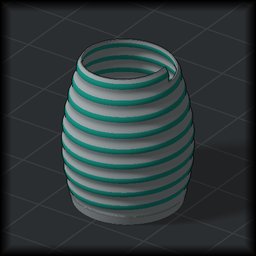
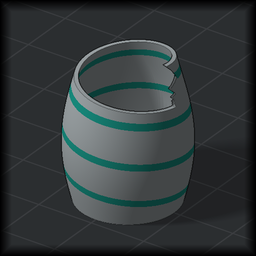
Explain the remaining calibration choices and the window buttons
- Calibration dialogs: filament type, test model and shaper type
  radios, and the flow ratio dialog's four test types and top surface
  pattern.
- Top bar: Minimize, Maximize/Restore (following the window state) and
  Close.
- Spiral vase "on" redrawn so the seam reads as one continuous spiral.

Changed region(s): [[0.2188, 0.1562, 0.7812, 0.8438]]

diff --git a/src/slic3r/GUI/calib_dlg.cpp b/src/slic3r/GUI/calib_dlg.cpp
@@ -56,6 +56,24 @@ void set_input_tooltip(TextInput* input, const wxString& text)
     set_illustrated_tooltip(input->GetTextCtrl(), text);
 }
 
+// One text for every item of a radio group, where the items differ only in the value they pick.
+void set_radio_tooltips(RadioGroup* group, size_t count, const wxString& text)
+{
+    for (size_t i = 0; i < count; ++i)
+        group->SetRadioIllustratedTooltip(int(i), text, {});
+}
+
+void set_tower_model_tooltips(RadioGroup* group)
+{
+    group->SetRadioIllustratedTooltip(0, _L("The large ringing tower: its long straight walls show the ripples after each corner clearly."), {});
+    group->SetRadioIllustratedTooltip(1, _L("A much smaller tower of the same height, quicker to print and small enough for little beds."), {});
+}
+
+void set_shaper_type_tooltips(RadioGroup* group, size_t count)
+{
+    set_radio_tooltips(group, count, _L("The input shaper algorithm the test sets on the printer. Only the types this printer's firmware supports are listed."));
+}
+
 void ParseStringValues(std::string str, std::vector<double> &vec)
 {
     vec.clear();
@@ -544,6 +562,9 @@ Temp_Calibration_Dlg::Temp_Calibration_Dlg(wxWindow* parent, wxWindowID id, Plat
     set_input_tooltip(m_tiStart, _L("The nozzle temperature of the bottom block of the tower. Each block above it is 5 degrees cooler, down to the end temperature."));
     set_input_tooltip(m_tiEnd, _L("The nozzle temperature of the top block. It has to be at least 5 degrees below the start temperature."));
     set_input_tooltip(m_tiStep, _L("The temperature difference between neighboring blocks, fixed at 5 degrees."));
+    set_radio_tooltips(m_rbFilamentType, 8, _L("Fills in a start and end temperature that suit this kind of filament. You can still change them."));
+    m_rbModel->SetRadioIllustratedTooltip(0, _L("A tower of blocks, one for each temperature."), {});
+    m_rbModel->SetRadioIllustratedTooltip(1, _L("A row of small test pieces with an overhang, one for each temperature, to compare how the overhangs come out."), {});
     wiki_btn->SetToolTip(_L("Wiki Guide") + "\n" + wiki_url);
     wiki_btn->SetStyle(ButtonStyle::Confirm, ButtonType::Circle);
     wiki_btn->SetCanFocus(false);
@@ -1339,6 +1360,8 @@ Input_Shaping_Freq_Test_Dlg::Input_Shaping_Freq_Test_Dlg(wxWindow* parent, wxWin
         set_input_tooltip(m_tiFreqStartY, freq_tip);
         set_input_tooltip(m_tiFreqEndY, freq_tip);
         set_input_tooltip(m_tiDampingFactor, _L("The damping ratio used for the whole test. 0 keeps the printer's own value."));
+        set_tower_model_tooltips(m_rbModel);
+        set_shaper_type_tooltips(m_rbType, type_labels.size());
     }
     wiki_btn->SetToolTip(_L("Wiki Guide") + "\n" + wiki_url);
     wiki_btn->SetStyle(ButtonStyle::Confirm, ButtonType::Circle);
@@ -1555,6 +1578,8 @@ Input_Shaping_Damp_Test_Dlg::Input_Shaping_Damp_Test_Dlg(wxWindow* parent, wxWin
                                      "so the height where the ringing after the corners is weakest gives the ratio.");
         set_input_tooltip(m_tiDampingFactorStart, damp_tip);
         set_input_tooltip(m_tiDampingFactorEnd, damp_tip);
+        set_tower_model_tooltips(m_rbModel);
+        set_shaper_type_tooltips(m_rbType, type_labels.size());
     }
     wiki_btn->SetToolTip(_L("Wiki Guide") + "\n" + wiki_url);
     wiki_btn->SetStyle(ButtonStyle::Confirm, ButtonType::Circle);
@@ -1763,6 +1788,8 @@ Cornering_Test_Dlg::Cornering_Test_Dlg(wxWindow* parent, wxWindowID id, Plater* 
     set_input_tooltip(m_tiJDStart, _L("The cornering limit at the bottom of the tower: junction deviation or jerk, whichever the printer's firmware uses. "
                                       "It changes steadily with height up to the end value."));
     set_input_tooltip(m_tiJDEnd, _L("The cornering limit at the top of the tower. The highest point where the corners still look clean gives the value."));
+    set_tower_model_tooltips(m_rbModel);
+    m_rbModel->SetRadioIllustratedTooltip(2, _L("A test model made for cornering tests (square corner velocity)."), {});
     wiki_btn->SetToolTip(_L("Wiki Guide") + "\n" + wiki_url);
     wiki_btn->SetStyle(ButtonStyle::Confirm, ButtonType::Circle);
     wiki_btn->SetCanFocus(false);
@@ -1909,6 +1936,15 @@ FlowRateCalibrationDialog::FlowRateCalibrationDialog(wxWindow* parent, wxWindowI
 
     auto wiki_btn = new Button(this, "", "toolbar_wiki", 0, 15);
     auto wiki_url = "https://www.orcaslicer.com/wiki/flow_ratio_calib";
+
+    m_rbType->SetRadioIllustratedTooltip(0, _L("Blocks whose flow ratio differs in large steps around the current one. "
+                                               "Set the flow ratio of the smoothest block, then run Pass 2."), {});
+    m_rbType->SetRadioIllustratedTooltip(1, _L("Blocks in small steps below the current flow ratio, to refine the result of Pass 1."), {});
+    m_rbType->SetRadioIllustratedTooltip(2, _L("One print that covers a narrow range around the current flow ratio, read off by the smoothest block. "
+                                               "Quicker than two passes."), {});
+    m_rbType->SetRadioIllustratedTooltip(3, _L("The same as YOLO, with smaller steps between the blocks."), {});
+    set_illustrated_tooltip(m_rbPattern, _L("The pattern of the top surfaces the test is judged by. Archimedean Chords prints the center last, "
+                                            "so too much flow leaves a raised lip there that can be felt. Monotonic gives plain straight lines."));
     wiki_btn->SetToolTip(_L("Wiki Guide") + "\n" + wiki_url);
     wiki_btn->SetStyle(ButtonStyle::Confirm, ButtonType::Circle);
     wiki_btn->SetCanFocus(false);

diff --git a/scripts/gizmo_tips/app_ui.py b/scripts/gizmo_tips/app_ui.py
@@ -203,6 +203,9 @@ VASE_LH = 0.13
 VASE_WALL = 0.035
 VASE_BOTTOM = 0.08
 SEAM_ANGLE = math.radians(-62.0)
+# The helix climbs faster than a real layer height, so its slope reads at this size as one rising line
+# and not as a stack of rings.
+SPIRAL_PITCH = 0.34
 
 
 def _vase_radius(z):
@@ -218,16 +221,17 @@ def _vase(spiral):
         wall = np.abs(r - rz + VASE_WALL * 0.5) - VASE_WALL * 0.5
         if spiral:
             # The wall ends on the helix, so the rim climbs once around instead of ending level.
-            top = VASE_H - VASE_LH * (1.0 - (theta / (2.0 * math.pi)) % 1.0)
+            top = VASE_H - SPIRAL_PITCH * (1.0 - (-theta / (2.0 * math.pi)) % 1.0)
         else:
             top = VASE_H
         dz = np.maximum(-z, z - top)
         bottom = np.maximum(r - rz, np.maximum(-z, z - VASE_BOTTOM))
         shell = np.minimum(np.maximum(wall, dz), bottom) * 0.8
         if spiral:
-            phase = z / VASE_LH - theta / (2.0 * math.pi)
-            ridge = 0.012 * (0.5 + 0.5 * np.cos(2.0 * math.pi * phase))
-            mat = np.where((z > VASE_BOTTOM + 0.01) & (np.abs((phase % 1.0) - 0.5) < 0.17), M_ACCENT, M_PART)
+            phase = z / SPIRAL_PITCH + theta / (2.0 * math.pi)
+            # No layer ridges: they would draw level rings and contradict the one rising line.
+            ridge = 0.0
+            mat = np.where((z > VASE_BOTTOM + 0.01) & (np.abs((phase % 1.0) - 0.5) < 0.09), M_ACCENT, M_PART)
             return union(bed(p), (shell + ridge * (z > VASE_BOTTOM), mat))
         ridge = _layer_ridges(z, VASE_LH, 0.012)
         items = [bed(p), (shell + ridge, M_PART)]

diff --git a/src/slic3r/GUI/BBLTopbar.cpp b/src/slic3r/GUI/BBLTopbar.cpp
@@ -464,6 +464,9 @@ void BBLTopbar::UpdateToolTips()
     SetToolShortHelp(ID_TOP_DROPDOWN_MENU, _L("The Edit, View and Help menus, Preferences, the Speed Dial, preset bundles and plugins."));
     SetToolShortHelp(ID_CALIB, _L("Prints a test model to tune a setting for the selected printer and filament: "
                                   "temperature, flow, pressure advance, retraction and more."));
+    SetToolShortHelp(wxID_ICONIZE_FRAME, _L("Minimize"));
+    SetToolShortHelp(wxID_MAXIMIZE_FRAME, m_frame->IsMaximized() ? _L("Restore") : _L("Maximize"));
+    SetToolShortHelp(wxID_CLOSE_FRAME, _L("Close"));
 }
 
 void BBLTopbar::EnableUndoRedoItems()
@@ -543,11 +546,13 @@ void BBLTopbar::SetTitle(wxString title)
 void BBLTopbar::SetMaximizedSize()
 {
     maximize_btn->SetBitmap(maximize_bitmap);
+    maximize_btn->SetShortHelp(_L("Maximize"));
 }
 
 void BBLTopbar::SetWindowSize()
 {
     maximize_btn->SetBitmap(window_bitmap);
+    maximize_btn->SetShortHelp(_L("Restore"));
 }
 
 void BBLTopbar::UpdateToolbarWidth(int width)
